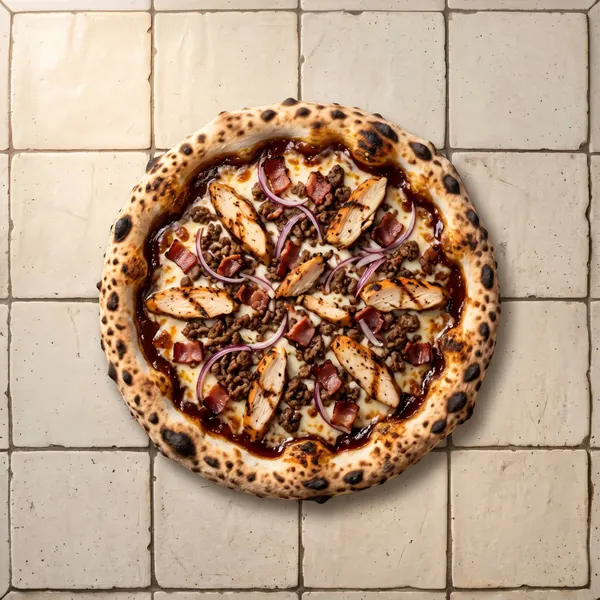
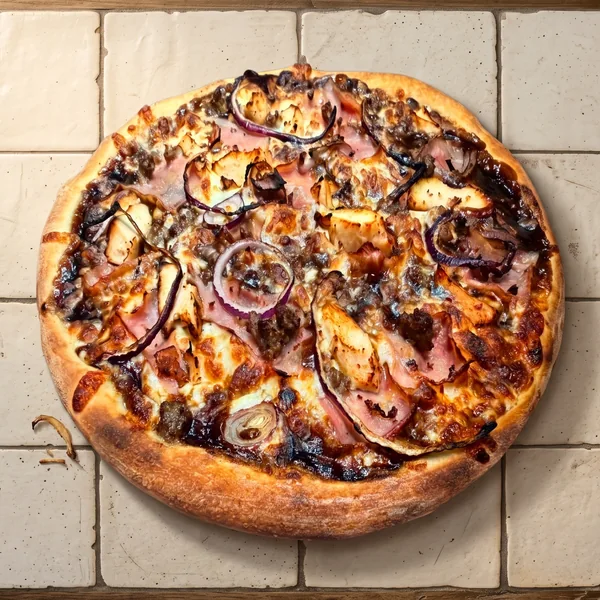
feat: use supplied menu photography

diff --git a/src/data/images.js b/src/data/images.js
@@ -31,10 +31,11 @@ export const srcSet = (id, widths = [640, 960, 1400, 1920]) =>
    exportadas en OWN_WIDTHS. Se sirve la menor que cubra el ancho pedido. */
 const OWN = 'own:'
 const OWN_WIDTHS = [600, 1200]
+const OWN_REVISION = '20261005'
 const isOwn = (id) => typeof id === 'string' && id.startsWith(OWN)
 const ownSrc = (id, w) => {
   const width = OWN_WIDTHS.find((x) => x >= w) || OWN_WIDTHS[OWN_WIDTHS.length - 1]
-  return `/fotos/pizzas/${id.slice(OWN.length)}-${width}.webp`
+  return `/fotos/pizzas/${id.slice(OWN.length)}-${width}.webp?v=${OWN_REVISION}`
 }
 
 /* ── IDs verificados ─────────────────────────────────────────── */
@@ -48,7 +49,7 @@ export const PHOTO = {
   tomato: '1592924357228-91a4daadcfea', // tomates en rama
   cheesePull: '1541745537411-b8046dc6d66c', // hilo de queso macro
   oliveOil: '1474979266404-7eaacbcd87c5', // aceite y aceitunas
-  cheeses: '1628088062854-d1870b4553da', // tabla de quesos
+  cheeses: 'own:ovni-camembert',
   table: '1481931098730-318b6f776db0', // mesa servida
   slicePull: '1520201163981-8cc95007dd2a', // porción levantada con queso
 
@@ -90,36 +91,43 @@ export const PHOTO = {
   calzoneProsciutto: 'own:calzone-prosciutto',
   calzoneKebab: 'own:calzone-kebab',
   calzoneSerrano: 'own:calzone-serrano',
+  fingers: 'own:fingers',
+  provolone: 'own:provolone',
+  camembertBites: 'own:ovni-camembert',
+  nonnitoLotus: 'own:nonnito-lotus',
+  nonnitoNutella: 'own:nonnito-nutella',
+  nonnitoOreo: 'own:nonnito-oreo',
+  nonnitoPistacho: 'own:nonnito-pistacho',
 
   // Entrantes
-  panDeAjo: '1608198093002-ad4e005484ec',
+  panDeAjo: 'own:pan-de-ajo',
   ensalada: '1540189549336-e6e99c3679fe',
   alitas: '1580217593608-61931cefc821',
-  patatasCheeseBacon: '1743193711514-4f7bc5d78d4d',
+  patatasCheeseBacon: 'own:patatas-cheese-bacon',
   patatasCheeseKebab: '1762284513031-3d7ad15562bc',
-  patatasFritas: '1606755456206-b25206cde27e',
-  boniatos: '1745792714512-77cffdb16020',
-  nuggets: '1627662055487-551888db3aa8',
-  tequenos: '1778850855907-8fbf7b089621',
-  palitosMozzarella: '1778449665117-2c607bbc7415',
+  patatasFritas: 'own:patatas-fritas',
+  boniatos: 'own:boniatos',
+  nuggets: 'own:nuggets',
+  tequenos: 'own:tequenos',
+  palitosMozzarella: 'own:palitos-mozzarella',
 
   // Bebidas
   limonada: '1621263764928-df1444c5e859',
   zumo: '1600271886742-f049cd451bba',
   vino: '1437418747212-8d9709afab22',
   cafe: '1544787219-7f47ccb76574',
-  refrescoBote: '1554866585-cd94860890b7',
-  aguaBotella: '1523362628745-0c100150b504',
-  cervezaBotella: '1597822738124-151fb72dcb79',
-  colaBotella: '1648569883125-d01072540b4c',
+  refrescoBote: 'own:refresco-bote',
+  aguaBotella: 'own:agua-botella',
+  cervezaBotella: 'own:cerveza-botella',
+  colaBotella: 'own:coca-cola-botella',
 
   // Postres
   tarta: '1571877227200-a0d98ea607e9',
   pannaCotta: '1488477181946-6428a0291777',
   helado: '1551024506-0bccd828d307',
   cookies: '1499636136210-6f4ee915583e',
-  oreoDessert: '1623548694299-c3eb13a26c5b',
-  nutellaCrepe: '1515467837915-15c4777ba46a',
-  pistachoDessert: '1482930172332-2293d7138235',
-  lotusDessert: '1771220433638-173b9579d199',
+  oreoDessert: 'own:calzone-oreo',
+  nutellaCrepe: 'own:calzone-tostarica',
+  pistachoDessert: 'own:calzone-pistacho',
+  lotusDessert: 'own:calzone-lotus',
 }

diff --git a/src/data/menu.js b/src/data/menu.js
@@ -212,7 +212,7 @@ export const PRODUCTS = [
     name: 'Provolone',
     description: 'Base de tomate, queso provolone, tomate natural y orégano.',
     ingredients: ['Base de tomate', 'Queso provolone', 'Tomate natural', 'Orégano'],
-    image: PHOTO.cheesePull,
+    image: PHOTO.provolone,
     price: 5.9,
     vegetarian: true,
   },
@@ -287,7 +287,7 @@ export const PRODUCTS = [
     name: 'Tiras de pollo',
     description: 'Fingers de pollo crujientes.',
     ingredients: [],
-    image: null,
+    image: PHOTO.fingers,
     price: 5.9,
   },
   {
@@ -379,7 +379,7 @@ export const PRODUCTS = [
     name: 'Nonnitos de Lotus',
     description: 'Bocaditos de masa horneada con crema y galleta Lotus.',
     ingredients: [],
-    image: null,
+    image: PHOTO.nonnitoLotus,
     price: 4.9,
     vegetarian: true,
   },
@@ -389,7 +389,7 @@ export const PRODUCTS = [
     name: 'Nonnitos de Nutella',
     description: 'Bocaditos de masa horneada con Nutella.',
     ingredients: [],
-    image: null,
+    image: PHOTO.nonnitoNutella,
     price: 4.9,
     vegetarian: true,
   },
@@ -399,7 +399,7 @@ export const PRODUCTS = [
     name: 'Nonnitos de Oreo',
     description: 'Bocaditos de masa horneada con crema de chocolate blanco y Oreo.',
     ingredients: [],
-    image: null,
+    image: PHOTO.nonnitoOreo,
     price: 4.9,
     vegetarian: true,
   },
@@ -409,7 +409,7 @@ export const PRODUCTS = [
     name: 'Nonnitos de pistacho',
     description: 'Bocaditos de masa horneada con crema de pistacho.',
     ingredients: [],
-    image: null,
+    image: PHOTO.nonnitoPistacho,
     price: 4.9,
     vegetarian: true,
   },

diff --git a/ayoub.md b/ayoub.md
@@ -9,6 +9,7 @@
 - **Impresión automática:** cola de comandas/tickets en Supabase, agente de Windows para impresoras térmicas ESC/POS, instalación por sede desde un código del panel y deduplicación/reintentos para evitar copias al recuperar la conexión. Al editar o cancelar un pedido se gestionan las comandas que aún están pendientes.
 - **Avisos al cliente:** eventos de pedido recibido, listo para recoger, salida a reparto y cancelación; WhatsApp con plantillas de Twilio y fallback a SMS si Twilio rechaza la solicitud de WhatsApp; estado, reintento manual y prueba SMS desde el panel.
 - **Mantenimiento:** registro mensual por sede con fecha, responsable, tareas, incidencias y estado realizado/previsto.
+- **Fotos de carta:** 34 fotos coincidentes con productos de la carpeta `C:\Users\Ayoub\Desktop\Work\Webs\IMAGES` se integraron en versiones WebP responsive de 600 y 1200 px. También se añadieron imágenes a los productos de la carta que antes no tenían.
 - **Mostrador y carta:** guía integrada para atender pedidos por teléfono y mejoras de textos, reglas del Club Nonno y avisos relacionados con alérgenos. Los datos de las sedes se conservaron como estaban.
 - **Operación y presentación:** documentación actualizada para los nuevos flujos, protección de cabeceras web y correcciones de reintentos para que una respuesta perdida no deje sin recuperar la impresión automática.
 - **Documentación:** puesta al día de `PEDIDOS.md`, guía de instalación de impresoras y este resumen.
@@ -24,6 +25,10 @@
 5. Envía una prueba desde el panel. El ordenador, la sesión de Windows y las impresoras deben estar disponibles durante el servicio.
 
 Las instrucciones completas están en `tienda/nonno-impresora/LEEME.txt` y `tienda/GUIA-IMPRESORAS.md`.
+
+### Actualizar las fotos de la carta
+
+Los productos leen sus fotos desde `src/data/images.js`; los archivos propios se guardan en `public/fotos/pizzas/` como `nombre-600.webp` y `nombre-1200.webp`. Al cambiar una foto, conserva ambos tamaños y el identificador `own:nombre` para que carta, detalle y pedido usen la misma imagen optimizada. Incrementa `OWN_REVISION` en `src/data/images.js` para que los navegadores carguen la versión nueva.
 
 ### Activar avisos al cliente
 
@@ -48,6 +53,7 @@ Desde la carpeta del proyecto: `npm install` y `npm run dev`. La vista de carta 
 - Instalar el agente en el equipo real de cada local y probar con sus impresoras, una comanda, ticket, reintento, edición y cancelación.
 - Configurar y comprobar SMS/WhatsApp con credenciales reales. No se han enviado mensajes de prueba ni pedidos reales desde este trabajo.
 - Confirmar con Nonno la matriz oficial de alérgenos y contaminación cruzada y revisar las fotos aprobadas de los productos. El código no inventa esos datos.
+- La carpeta no trae una coincidencia clara para todos los productos ni para las fotos de los locales y secciones de marca; esas imágenes conservan su origen actual. Las fotos de refrescos concretos (Fanta/Zero) no se asociaron a opciones que la carta aún no ofrece por separado.
 - Revisar los datos fiscales y las condiciones definitivas del Club Nonno que recoge el checklist del proyecto.
 
 ## Límites de esta entrega
